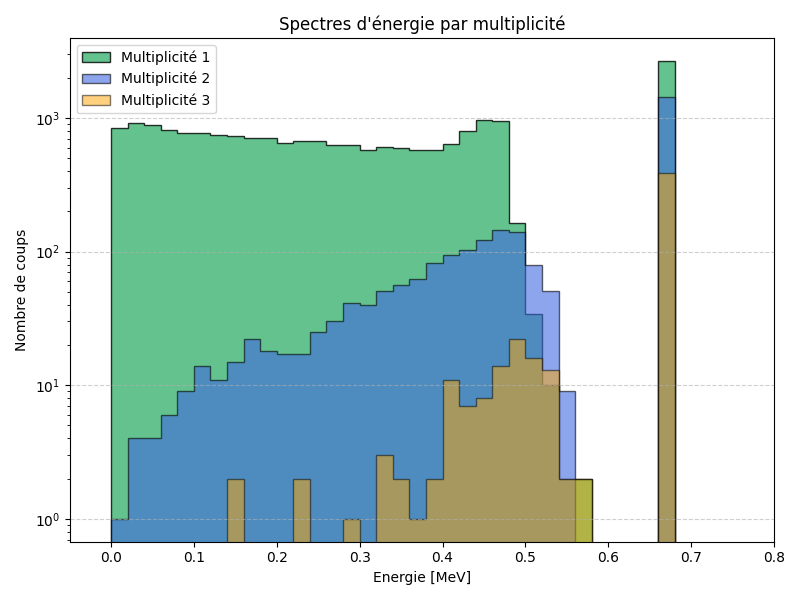
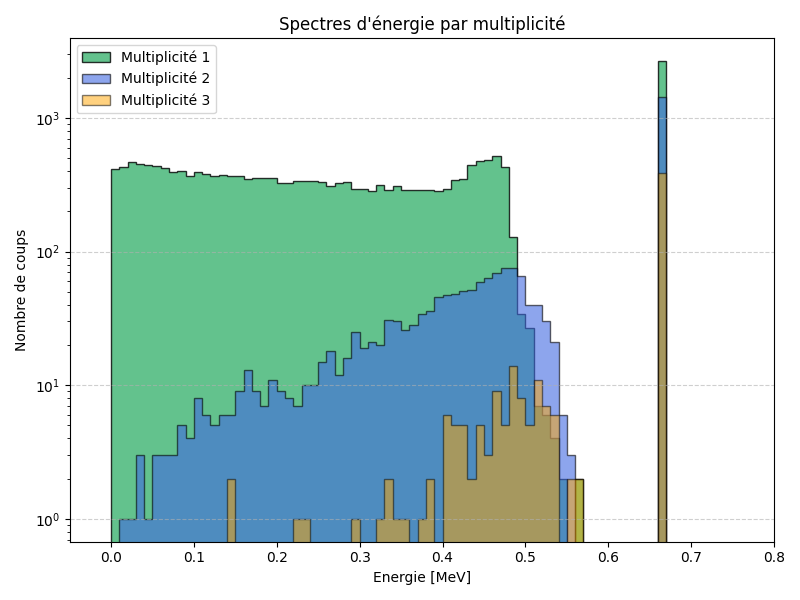
feat:add_pixels_log

diff --git a/src/studies/gamma_camera/particule_tracking/post.py b/src/studies/gamma_camera/particule_tracking/post.py
@@ -38,11 +38,12 @@ mult = []
 xs = []
 ys = []
 zs = []
+x_pixel = []
+y_pixel = []
 history_number = []
 
 for i in range(len(tracks)) : 
-    if i % 10000 == 0:
-        print(f"Processing track {i}/{len(tracks)}")
+
     states = tracks[i].particle_tracks[0].states
     # On cherche les indices où l'énergie change
     E = states['E']
@@ -57,10 +58,15 @@ for i in range(len(tracks)) :
             # save in an arrat the position of the energy change
             # get the energy loss in the cell 
             energy_loss += np.abs(E[idx] - E[idx-1])
-            mult_value += 1
             xs.append(pos['x'])
             ys.append(pos['y'])
             zs.append(pos['z'])
+            # récupère les coordonnées des pixels pour chaque énergie déposée
+            x_pixel.append(num_pixel(ys[-1], zs[-1])[0])
+            y_pixel.append(num_pixel(ys[-1], zs[-1])[1])
+            # if x_pixel[i]
+            mult_value += 1
+
             # print(f"Changement d'énergie à x={pos['x']}, y={pos['y']}, z={pos['z']} (E={E[idx]})")
             mult.append(len(energy_change_indices))
             energy_loss_values.append(np.abs(E[idx] - E[idx-1]))
@@ -69,6 +75,8 @@ for i in range(len(tracks)) :
           energy_loss_values_tot.append(energy_loss)
     else:   
         pass
+    if i % 10000 == 0:
+        print(f"Processing track {i}/{len(tracks)}")
 
 # Convertir les listes en tableaux numpy
 energy_change_positions = np.array(energy_change_positions)
@@ -135,7 +143,7 @@ plt.savefig("histo_pixel.png")
 plt.show()
 
 plt.figure(figsize=(8, 6))
-plt.hist(energy_loss_values_tot/1e6, bins=45, color='mediumseagreen', edgecolor='black', alpha=0.8)
+plt.hist(energy_loss_values_tot/1e6, bins=100, color='mediumseagreen', edgecolor='black', alpha=0.8)
 plt.yscale("log")
 plt.xlabel("Energie [MeV]")
 plt.ylabel("Nombre de coups")
@@ -146,7 +154,7 @@ plt.savefig("spectrum_energy.png")
 plt.show()
 
 plt.figure(figsize=(8, 6))
-bins = np.linspace(0, 1, 51)  # 50 bins between 0 and 1 MeV
+bins = np.linspace(0, 1, 101)  # 50 bins between 0 and 1 MeV
 plt.hist(energy_loss_values_tot_mult_1/1e6, bins=bins, color='mediumseagreen', edgecolor='black', alpha=0.8, label='Multiplicité 1', histtype='stepfilled')
 plt.hist(energy_loss_values_tot_mult_2/1e6, bins=bins, color='royalblue', edgecolor='black', alpha=0.6, label='Multiplicité 2', histtype='stepfilled')
 plt.hist(energy_loss_values_tot_mult_3/1e6, bins=bins, color='orange', edgecolor='black', alpha=0.5, label='Multiplicité 3', histtype='stepfilled')
